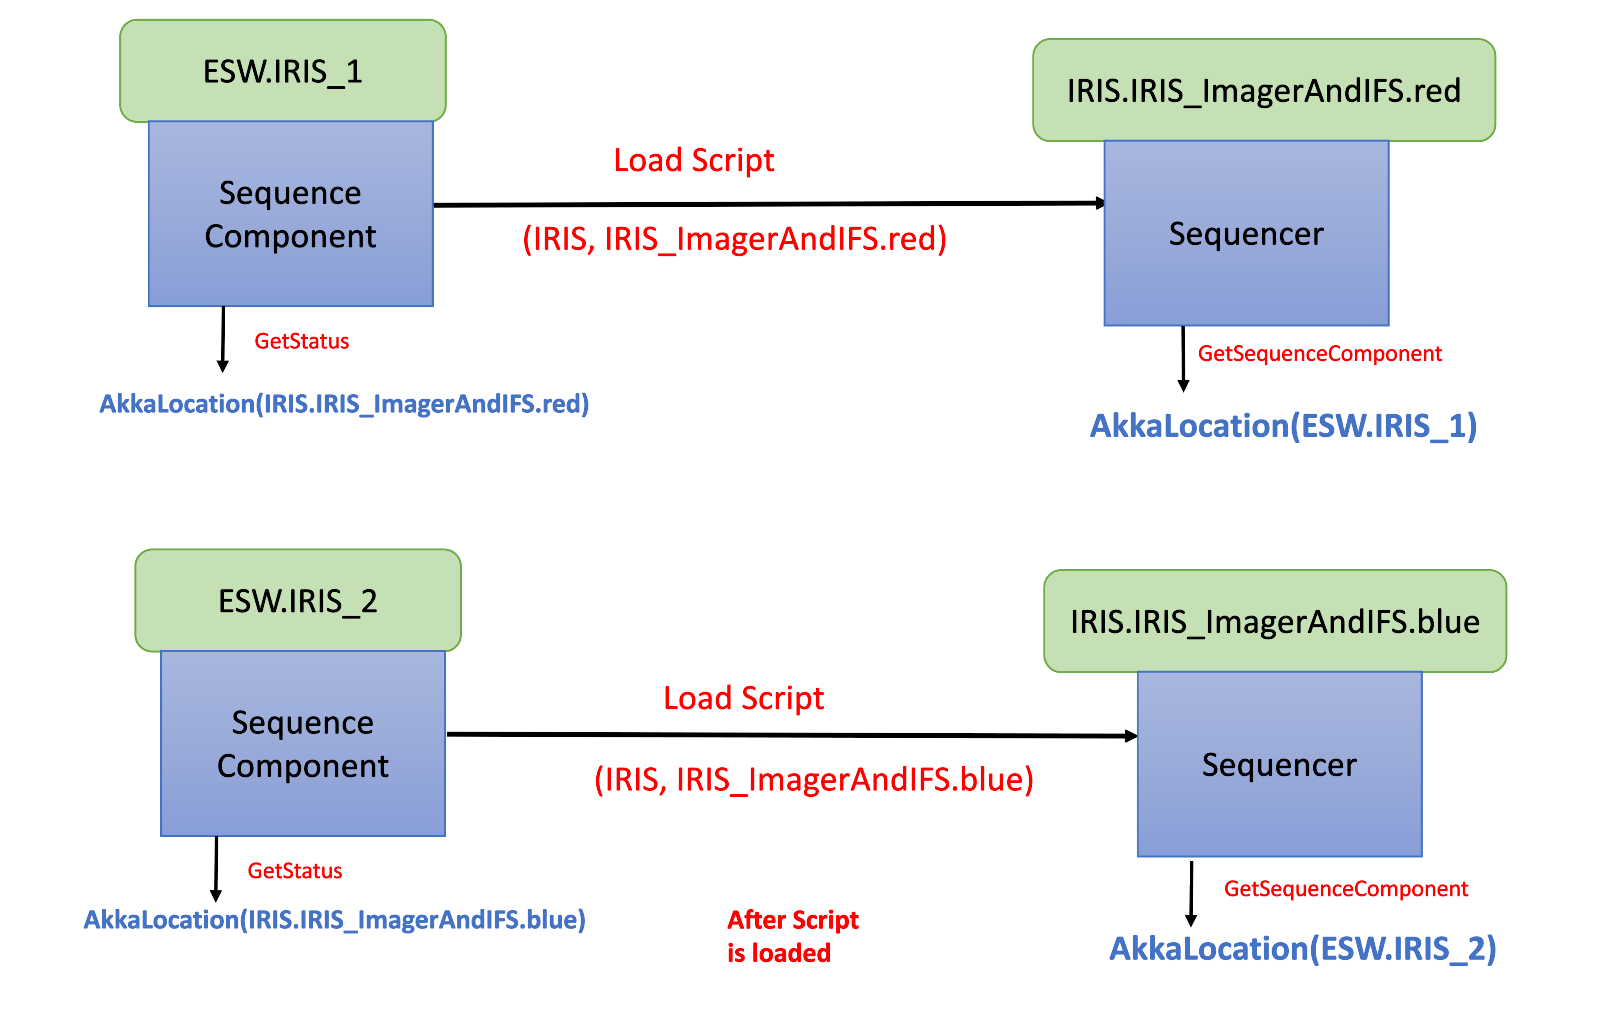
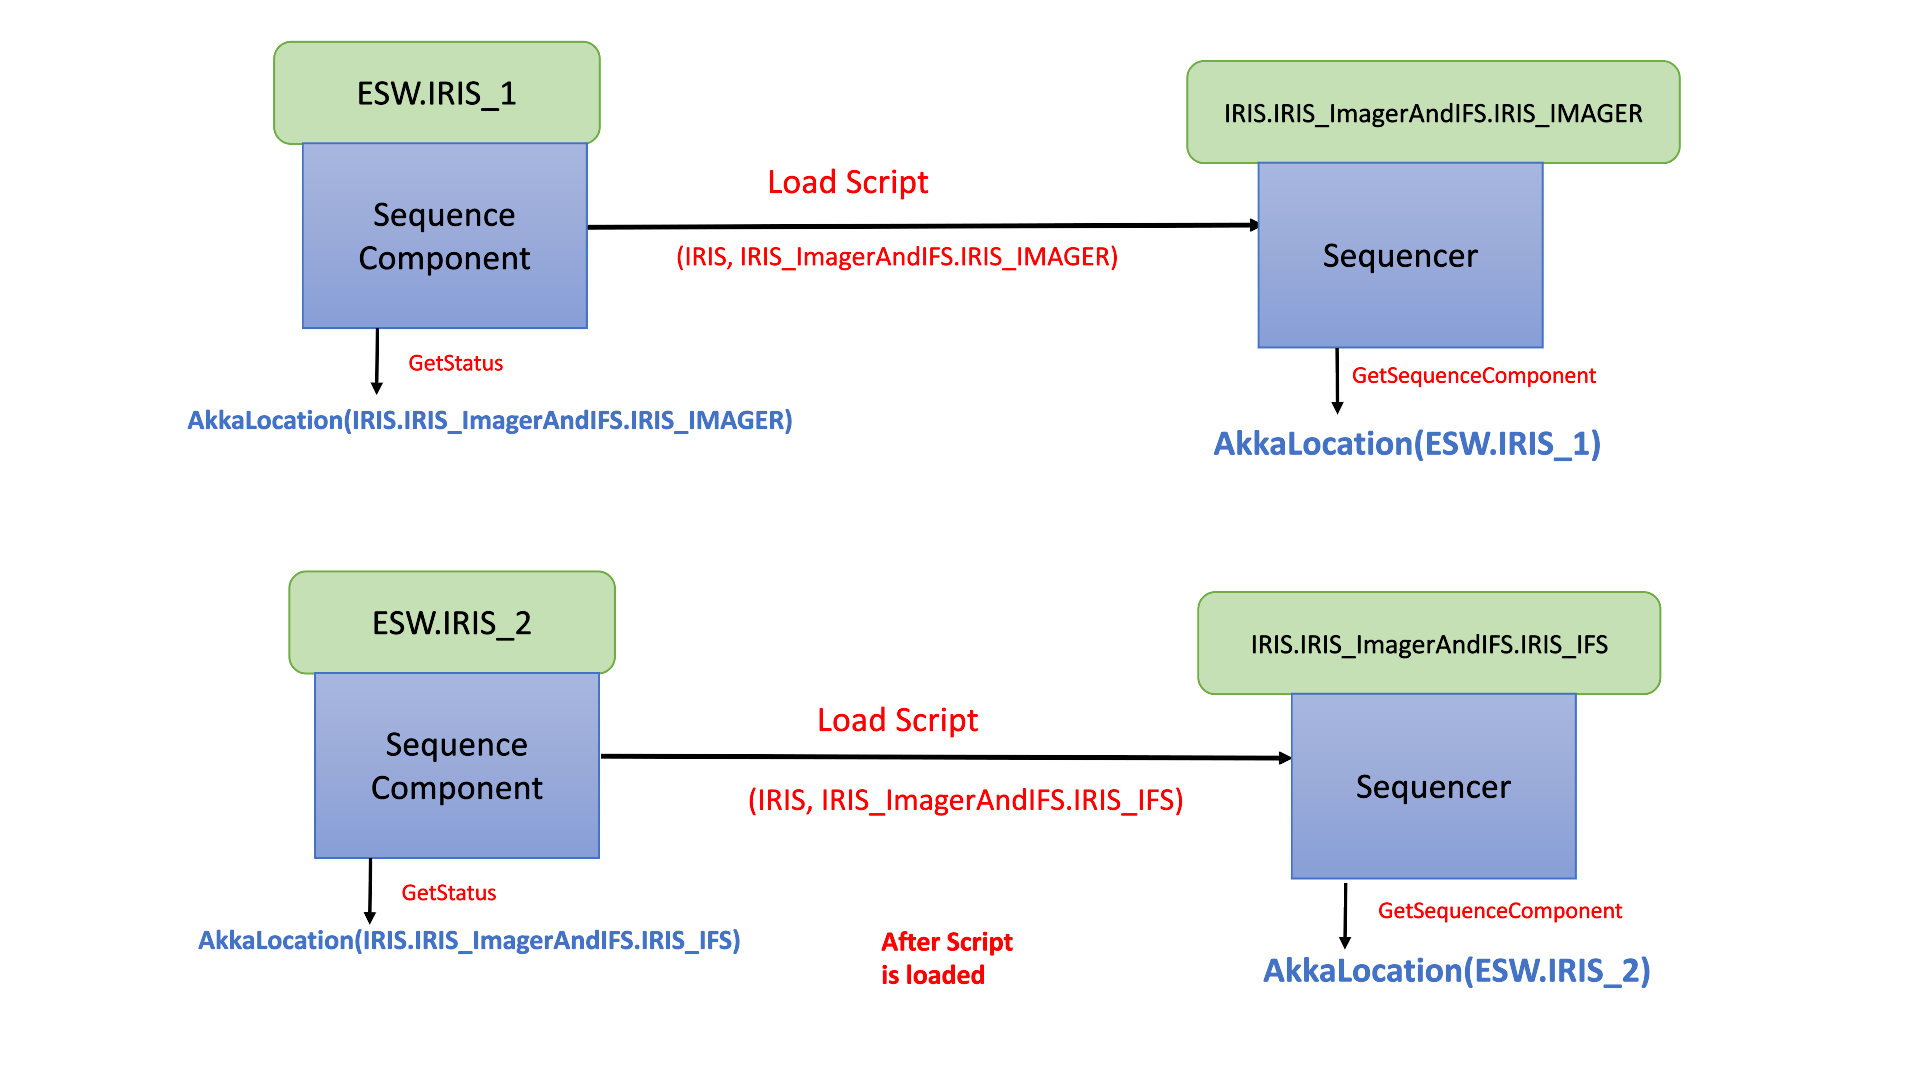
Rajalakshmi|ESW-568- Changes to IRIS variation from red/blue to imager/ifs

diff --git a/docs/src/main/technical/testing-philosophy.md b/docs/src/main/technical/testing-philosophy.md
@@ -176,18 +176,20 @@ this looks like this:
 
 ```scala
 "SequenceManagerClient" must {
- "return ShutdownSequencersResponse for shutdownSequencer request" in {
-      val shutdownSequencersResponse = mock[ShutdownSequencersResponse]
-      val shutdownSequencerMsg       = ShutdownSequencer(ESW, obsMode, None)
-      when(
-        postClient.requestResponse[ShutdownSequencersResponse](argsEq(shutdownSequencerMsg))(
-          any[Decoder[ShutdownSequencersResponse]](),
-          any[Encoder[ShutdownSequencersResponse]]()
-        )
-      ).thenReturn(Future.successful(shutdownSequencersResponse))
+  "return ShutdownSequencersResponse for shutdownSequencer request" in {
+    val shutdownSequencersResponse = mock[ShutdownSequencersResponse]
+    val shutdownSequencerMsg = ShutdownSequencer(ESW, obsMode, None)
+    when(
+      postClient.requestResponse[ShutdownSequencersResponse](argsEq(shutdownSequencerMsg))(
+        any[Decoder[ShutdownSequencersResponse]](),
+        any[Encoder[ShutdownSequencersResponse]]()
+      )
+    ).thenReturn(Future.successful(shutdownSequencersResponse))
 
-      client.shutdownSequencer(ESW, obsMode, None).futureValue shouldBe shutdownSequencersResponse
-    }
+    client.shutdownSequencer(ESW, obsMode, None).futureValue shouldBe shutdownSequencersResponse
+  }
+}
+
 ```
 
 One thing to note is that we are also mocking the response. This insures that the response we get
@@ -244,11 +246,14 @@ class SequenceManagerRequestHandlerTest
     with ClientHttpCodecs {
   private val sequenceManagerApi = mock[SequenceManagerApi]
   private val securityDirectives = mock[SecurityDirectives]
-  private val postHandler        = new SequenceManagerRequestHandler(sequenceManagerApi, securityDirectives)
+  private val postHandler = new SequenceManagerRequestHandler(sequenceManagerApi, securityDirectives)
 
   import LabelExtractor.Implicits.default
+
   private val route = new PostRouteFactory[SequenceManagerRequest]("post-endpoint", postHandler).make()
-```
+
+}
+ ```
 
 The test creates a `post-endpoint` route via msocket, just like we using in our msocket-based HTTP
 server. Now, our test uses Akka-HTTP to POST a request to this route, using the Akka-HTTP testkit to
@@ -360,6 +365,8 @@ class SequenceManagerImpl(location: AkkaLocation)(implicit actorSystem: ActorSys
 
   private val smRef: ActorRef[SequenceManagerMsg] = location.uri.toActorRef.unsafeUpcast[SequenceManagerMsg]
 
+} 
+
 ```
 
 The code for our method simply creates an Akka message the actor can handle (in this case,
@@ -461,13 +468,13 @@ As seen below, this is what our test does.  As we seen before the lower layer
 ```scala
 class SequenceManagerBehaviorTest extends BaseTestSuite with TableDrivenPropertyChecks {
 
-  private val locationServiceUtil: LocationServiceUtil = 
+  private val locationServiceUtil: LocationServiceUtil =
     mock[LocationServiceUtil]
 
-  private val agentUtil: AgentUtil                                   = mock[AgentUtil]
-  private val sequencerUtil: SequencerUtil                           = mock[SequencerUtil]
+  private val agentUtil: AgentUtil = mock[AgentUtil]
+  private val sequencerUtil: SequencerUtil = mock[SequencerUtil]
 
-  private val sequenceComponentUtil: SequenceComponentUtil           = mock[SequenceComponentUtil]
+  private val sequenceComponentUtil: SequenceComponentUtil = mock[SequenceComponentUtil]
 
   private val sequenceComponentAllocator: SequenceComponentAllocator = mock[SequenceComponentAllocator]
 
@@ -478,11 +485,11 @@ class SequenceManagerBehaviorTest extends BaseTestSuite with TableDrivenProperty
     sequencerUtil,
     sequenceComponentUtil
   )
-  
-"ShutdownSequencer" must {
+
+  "ShutdownSequencer" must {
     val responseProbe = TestProbe[ShutdownSequencersResponse]()
-    val prefix        = Prefix(ESW, darkNight.name)
-    val shutdownMsg   = ShutdownSequencer(ESW, darkNight, None, responseProbe.ref)
+    val prefix = Prefix(ESW, darkNight.name)
+    val shutdownMsg = ShutdownSequencer(ESW, darkNight, None, responseProbe.ref)
     s"transition sm from Idle -> Processing -> Idle state and stop| ESW-326, ESW-345, ESW-166, ESW-324, ESW-342, ESW-351, ESW-561" in {
       when(sequencerUtil.shutdownSequencer(prefix)).thenReturn(future(1.seconds, ShutdownSequencersResponse.Success))
 
@@ -495,7 +502,9 @@ class SequenceManagerBehaviorTest extends BaseTestSuite with TableDrivenProperty
       responseProbe.expectMessage(ShutdownSequencersResponse.Success)
       verify(sequencerUtil).shutdownSequencer(prefix)
     }
+  }
 }
+
 ```
 
 ### SequencerUtil

diff --git a/docs/src/main/sequencersandscripts/sequencer.md b/docs/src/main/sequencersandscripts/sequencer.md
@@ -118,8 +118,8 @@ There are no restrictions on this name, but shorter is better. Any name can be u
 This is argument to allow the system to run multiple sequencers for a subsystem.
 As an example we need to create 3 IRIS sequencers + 1 top level ESW sequencer for IRIS_ImagerAndIFS Obsmode
 
-* IRIS.IRIS_ImagerAndIFS.IRIS_IFS //Subsystem . obsmode . variation
-* IRIS.IRIS_ImagerAndIFS.IRIS_IMAGER //Subsystem . obsmode . variation
+* IRIS.IRIS_ImagerAndIFS.IRIS_Ifs //Subsystem . obsmode . variation
+* IRIS.IRIS_ImagerAndIFS.IRIS_Imager //Subsystem . obsmode . variation
 * IRIS.IRIS_ImagerAndIFS //Subsystem . obsmode
 * ESW.IRIS_ImagerAndIFS //Subsystem . Obsmode
 
@@ -137,8 +137,8 @@ Use of @ sign makes it appear like an email, hence validateSite fails without sp
 
 | Sequence<br>Component Name | Sequencer Subsystem | Observing Mode| Variation | Registered Location | Description|
 |:------------------:|:-------:|:---------:|:-----------:|:---------------:|:------------------|
-| ESW.IRIS_1 | IRIS | IRIS_ImagerAndIFS| red |IRIS.IRIS_ImagerAndIFS.red | An IRIS instrument Sequencer running the IRIS script for the IRIS_ImagerAndIFS observing mode using the ESW.IRIS_1 Sequence Component with a variation as red. |
-| ESW.IRIS_2 | IRIS | IRIS_ImagerAndIFS | blue |IRIS.IRIS_ImagerAndIFS.blue | An IRIS instrument Sequencer running the IRIS script for the IRIS_ImagerAndIFS observing mode using the ESW.IRIS_2 Sequence Component with a variation as blue. |
+| ESW.IRIS_1 | IRIS | IRIS_ImagerAndIFS| IRIS_Imager |IRIS.IRIS_ImagerAndIFS.IRIS_Imager | An IRIS instrument Sequencer running the IRIS script for the IRIS_ImagerAndIFS observing mode using the ESW.IRIS_1 Sequence Component with a variation as IRIS_Imager. |
+| ESW.IRIS_2 | IRIS | IRIS_ImagerAndIFS | IRIS_Ifs |IRIS.IRIS_ImagerAndIFS.IRIS_Ifs | An IRIS instrument Sequencer running the IRIS script for the IRIS_ImagerAndIFS observing mode using the ESW.IRIS_2 Sequence Component with a variation as IRIS_Ifs. |
 | ESW.primary | ESW |  IRIS_ImagerAndIFS | | ESW.IRIS_ImagerAndIFS | An ESW Sequencer running the ESW script for the IRIS_ImagerAndIFS observing mode using the ESW.primary Sequence Component. |
 
 As shown above, the observing mode is the instrument name, and an instrument-specific label related to observing mode features.  Variation is used to differentiate between any two sequencers of one subsystem(eg. IRIS).  Each instrument

diff --git a/docs/src/main/technical/apps/sequence-manager-app.md b/docs/src/main/technical/apps/sequence-manager-app.md
@@ -76,7 +76,7 @@ Sequence Manager uses the obsMode and the subsystem to find the correct script t
 are located in the `sequencer-scripts` repository.
 
 The obsMode configuration file is written in JSON. An example follows with three obsModes: IRIS_MCAO, IRIS_Calib, and WFOS_Calib.
-By convention obsModes start with the instrument's subsystem name followed by an underscore and some other description. The Sequencers can also have a variation now(eg. `IRIS.red`, `IRIS.blue`) to run multiple sequencers concurrently for a subsystem.
+By convention obsModes start with the instrument's subsystem name followed by an underscore and some other description. The Sequencers can also have a variation now(eg. `IRIS_IMAGER`, `IRIS_IFS`) to run multiple sequencers concurrently for a subsystem.
 ```
 esw-sm {
   obsModes: {
@@ -86,7 +86,7 @@ esw-sm {
     },
     IRIS_ImagerAndIFS: {
       resources: [IRIS, TCS]
-      sequencers: [IRIS.red, IRIS.blue, ESW]
+      sequencers: [IRIS.IRIS_Imager, IRIS.IRIS_Ifs, ESW]
     },
     WFOS_Calib: {
       resources: [WFOS]

diff --git a/docs/src/main/sequencersandscripts/sequencer-app.md b/docs/src/main/sequencersandscripts/sequencer-app.md
@@ -128,14 +128,14 @@ cd /tmt/apps
 
 ```
 
-Example 3: Start the IRIS-darknight Sequencer on an IRIS Sequence Component with a variation of red
+Example 3: Start the IRIS-darknight Sequencer on an IRIS Sequence Component with a variation of IRIS_IFS
 
 ```bash
 //cd to installation directory
 cd /tmt/apps
 
-//Example below will spawn a Sequence Component `IRIS-primary` and a Sequencer `IRIS-ImagerAndIFS` in it with variation as red
-./esw-ocs-app sequencer -s iris -a IRIS.agent1 -n primary -i iris -m IRIS_ImagerAndIFS -v red
+//Example below will spawn a Sequence Component `IRIS-primary` and a Sequencer `IRIS-ImagerAndIFS` in it with variation as IRIS_IFS
+./esw-ocs-app sequencer -s iris -a IRIS.agent1 -n primary -i iris -m IRIS_ImagerAndIFS -v IRIS_IFS
 
 ```
 

diff --git a/docs/src/main/technical/sequence-manager-tech.md b/docs/src/main/technical/sequence-manager-tech.md
@@ -70,8 +70,8 @@ Sequence Manager also support running multiple sequencers of a subsystem in same
 
 * To support multiple sequencers with same subsystem in an observation, we can add variation while doing LoadScript.
   As an example we need to create 3 IRIS sequencers + 1 top level ESW sequencer for IRIS_ImagerAndIFS Obsmode
-  * IRIS.IRIS_ImagerAndIFS.IRIS_IFS //Subsystem . obsmode . variation
-  * IRIS.IRIS_ImagerAndIFS.IRIS_IMAGER //Subsystem . obsmode . variation
+  * IRIS.IRIS_ImagerAndIFS.IRIS_Ifs //Subsystem . obsmode . variation
+  * IRIS.IRIS_ImagerAndIFS.IRIS_Imager //Subsystem . obsmode . variation
   * IRIS.IRIS_ImagerAndIFS //Subsystem . obsmode
   *ESW.IRIS_ImagerAndIFS //Subsystem . Obsmode
 
